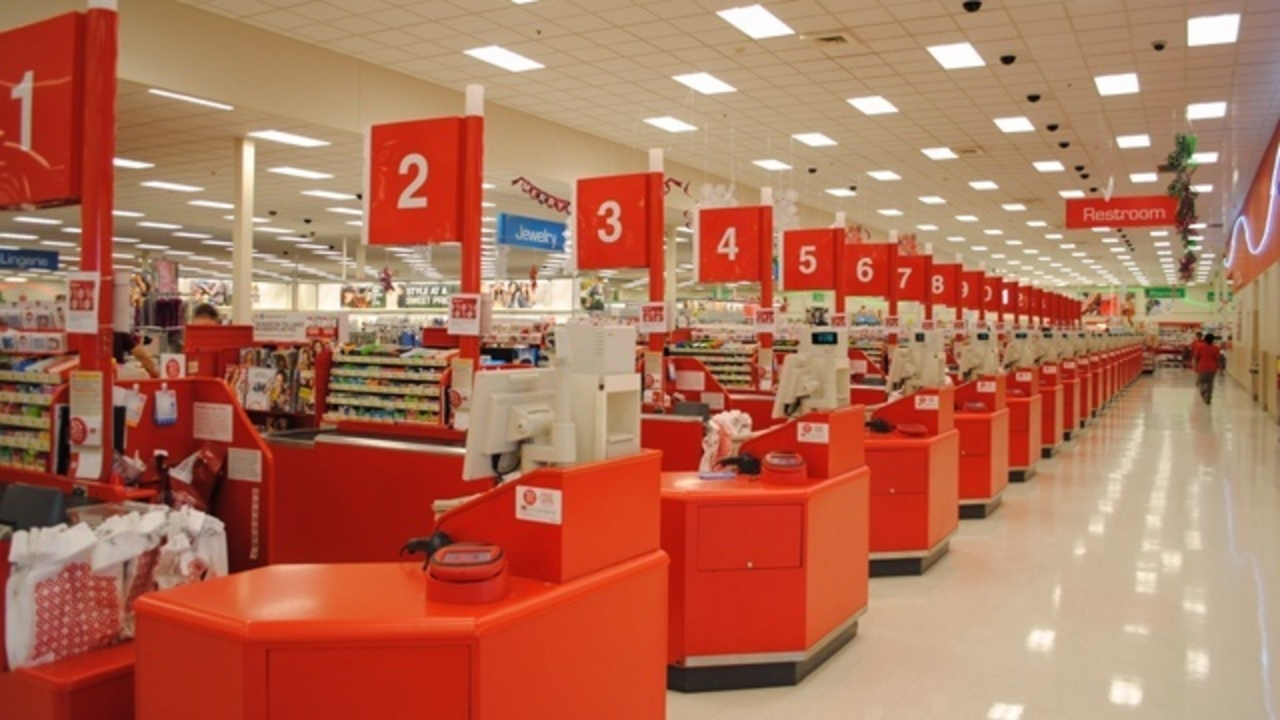
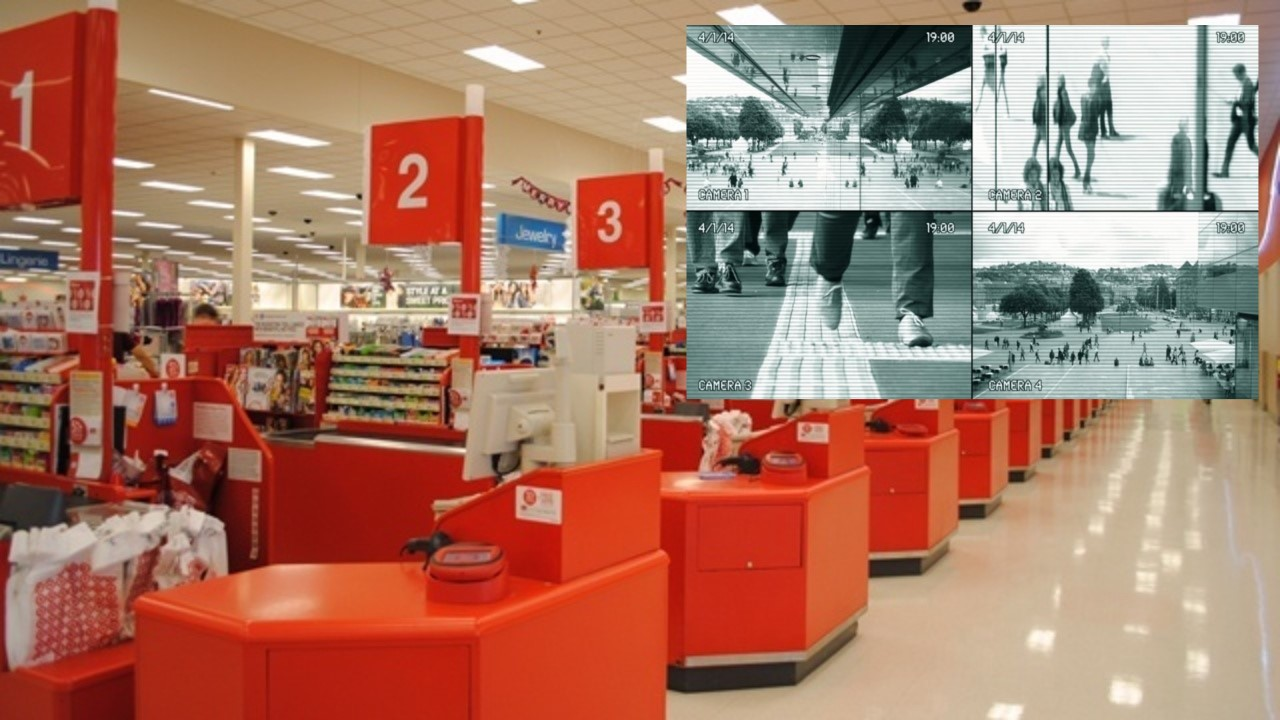
asdf

Changed region(s): [[0.5312, 0.0306, 1.0, 0.5806]]

diff --git a/_layouts/post.html b/_layouts/post.html
@@ -25,6 +25,10 @@ post_class: post-template
                 <!-- Post Title -->
                 <h1 class="posttitle">{{ page.title }}</h1> 
                 
+                <!-- Post Featured Image -->
+                {% if page.image %}<img class="featured-image img-fluid" src="{% if page.image contains "://" %}{{ page.image }}{% else %}{{ page.image | absolute_url }}{% endif %}" alt="{{ page.title }}">{% endif %}
+                <!-- End Featured Image -->
+
                 <!-- Author Box -->
                 {% if page.author %}				
 				<div class="row post-top-meta"> 
@@ -41,10 +45,6 @@ post_class: post-template
                 {% endif %}
                 
 			</div>
-
-			<!-- Post Featured Image -->
-			{% if page.image %}<img class="featured-image img-fluid" src="{% if page.image contains "://" %}{{ page.image }}{% else %}{{ page.image | absolute_url }}{% endif %}" alt="{{ page.title }}">{% endif %}
-			<!-- End Featured Image -->
 
 			<!-- Post Content -->
 			<div class="article-post">

diff --git a/_drafts/2019-07-09-target-streaming.md b/_drafts/2019-07-09-target-streaming.md
@@ -1,0 +1,24 @@
+---
+layout: post
+title: "Target Announces New Streaming Service from Security Camera Feeds"
+author: warren
+categories: [ general, tech ]
+image: assets/images/target.jpg
+featured: true
+hidden: true
+---
+
+MINNEAPOLIS, MN - The summer blockbuster has evolved into the the summer binge-watch, and retail giant Target ([TGT](https://www.nyse.com/quote/XNYS:TGT)) is pivoting from purveyor of cheap plastic towel racks to one of host of new platforms developing streaming content this year. Just like [Apple TV+](https://www.apple.com/tv/), [CBS All-Access](https://www.cbs.com/all-access/), and the House of Mouse's massive [DisneyPlus](https://preview.disneyplus.com/), Target will be leveraging its existing assets to fill streamers' increasing appetites. 
+
+The platform dubbed "Target+" will provide thousands of hours of unaltered security cameras footage from Target retail stores across America. 
+
+
+Drama- mother daughter fighting in aisle
+Comedy - fat guy trying on misshapen khakis
+Food + pizza hut express, slow-cooked breadsticks
+After dark - bathroom
+
+Executives hope to re-introduce the brand to customers who previously only entered the store to pick up off-brand candy to sneak into the movie theater next door in the mall. Media critics remain skeptical, as a similar product developed by [Walmart](https://finance.yahoo.com/quote/WMT), the mystery-drama "Who Shat in Aisle 6?", was received relatively poorly.
+
+
+r/netflix
